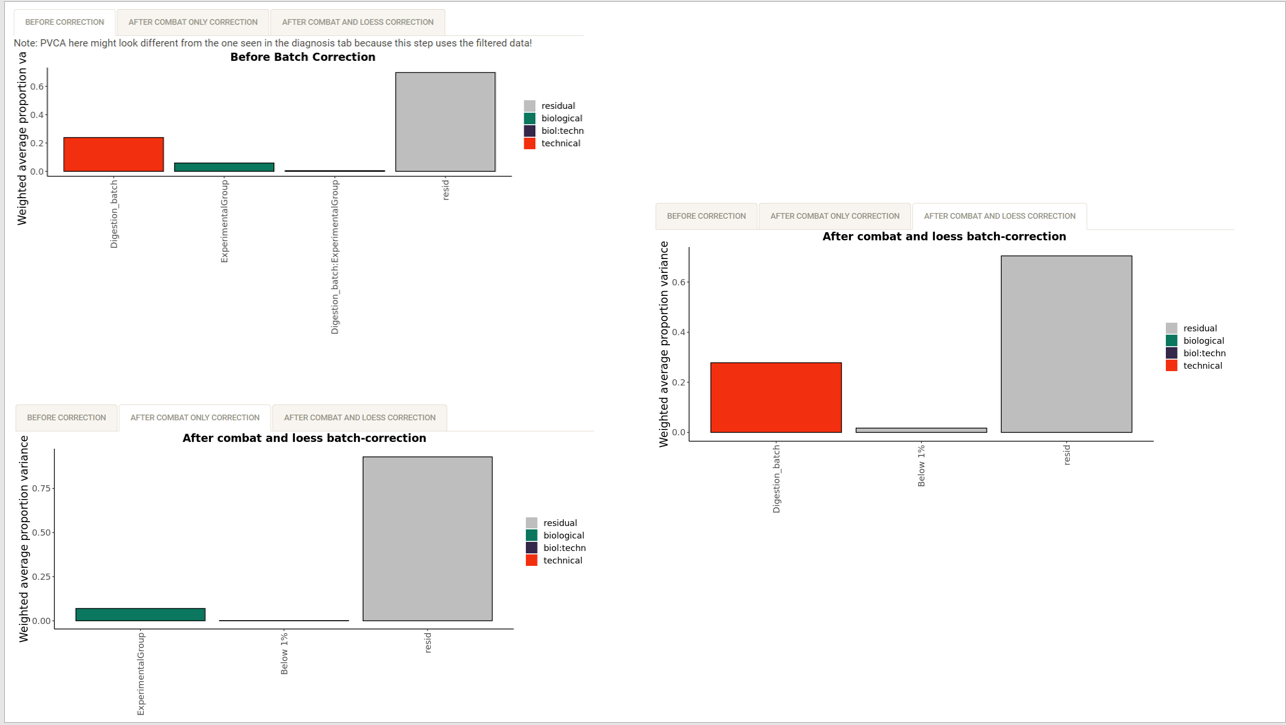
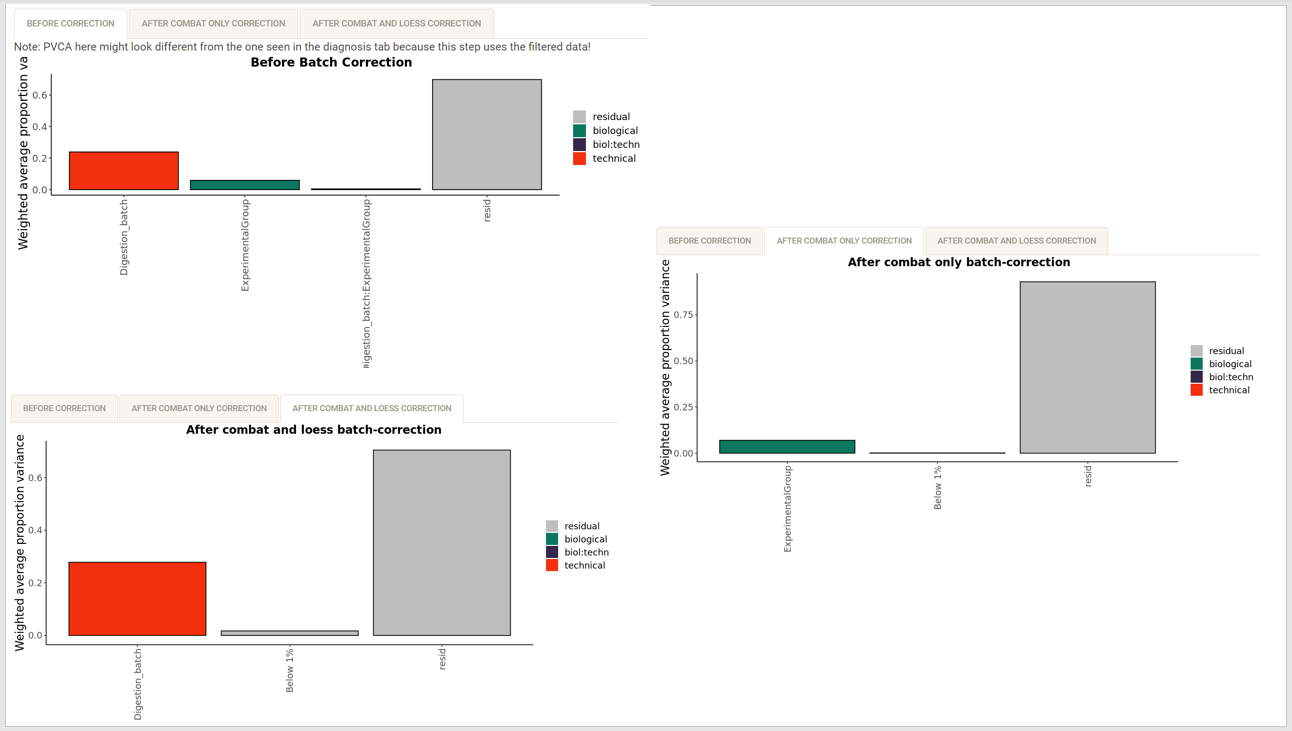
updating example readme

Changed region(s): [[0.0, 0.0, 1.0, 1.0], [0.0, 0.0, 0.4977, 0.4855], [0.4977, 0.2731, 0.9642, 0.7586]]

diff --git a/example/README.md b/example/README.md
@@ -98,5 +98,12 @@ Similarly, you can see that the missingness heatmaps don't contain the fragments
 
 ![BIRCH results page2](../Images/results_filt_example2.PNG)
 
+Some of the other important features in the results section are the PVCA and PCA plots. From the example dataset, it can be seen that Digestion batch has most variation (PVCA) and distinct clusters (PCA) before correction. However, with combat only batch-correction, all the variation in Digestion batch (PVCA) is gone and only the relevant biological group variation is retained. Even the PCA after combat only batch-correction shows that the distinct clusters no longer exist. On the other hand, combat+loess batch-correction seems to over-correct and get rid of the biological variation (PVCA). For this reason, it seems like combat only batch-correction is enough and accurate for this particular dataset. The PVCA and PCA plots before, after combat only and after combat+loess batch-correction looks like this - 
 
+![BIRCH results page4](../Images/results_pvca_example.PNG)
 
+![BIRCH results page5](../Images/results_pca_example.PNG)
+
+Lastly, the Downloads section contains buttons to be able to download all the required files, along with a report that contains all the plots and results within the app. The downloadable files include pre and post imputed, batch-corrected files, filtered files, and so on. A note regarding the most appropriate method of batch-correction (combat only or combat+loess) for your dataset will also be printed. For our example dataset, combat only seems to be the most applicable, which is what the note also suggests. 
+
+![BIRCH results page6](../Images/results_downloads_example.PNG)
